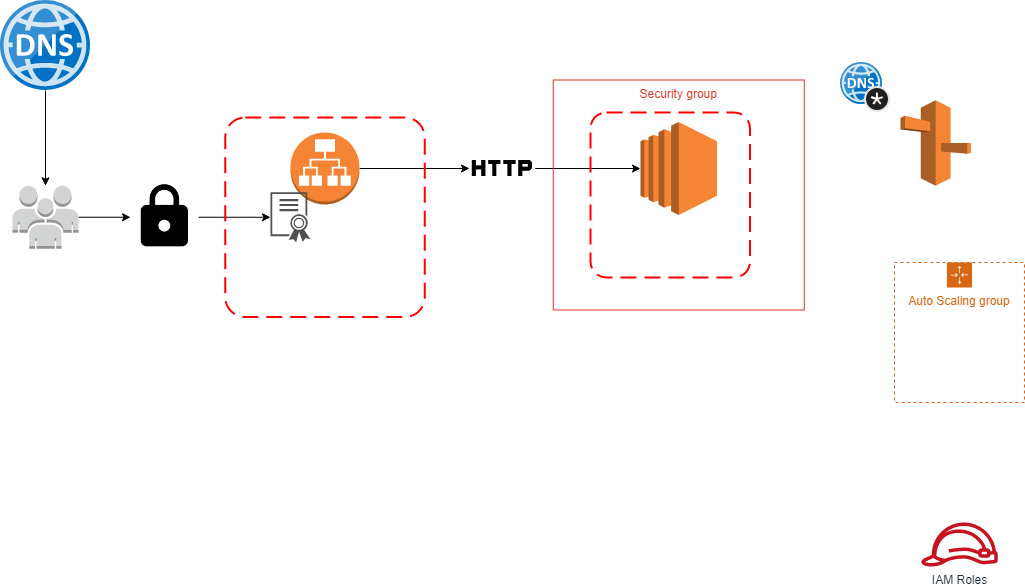
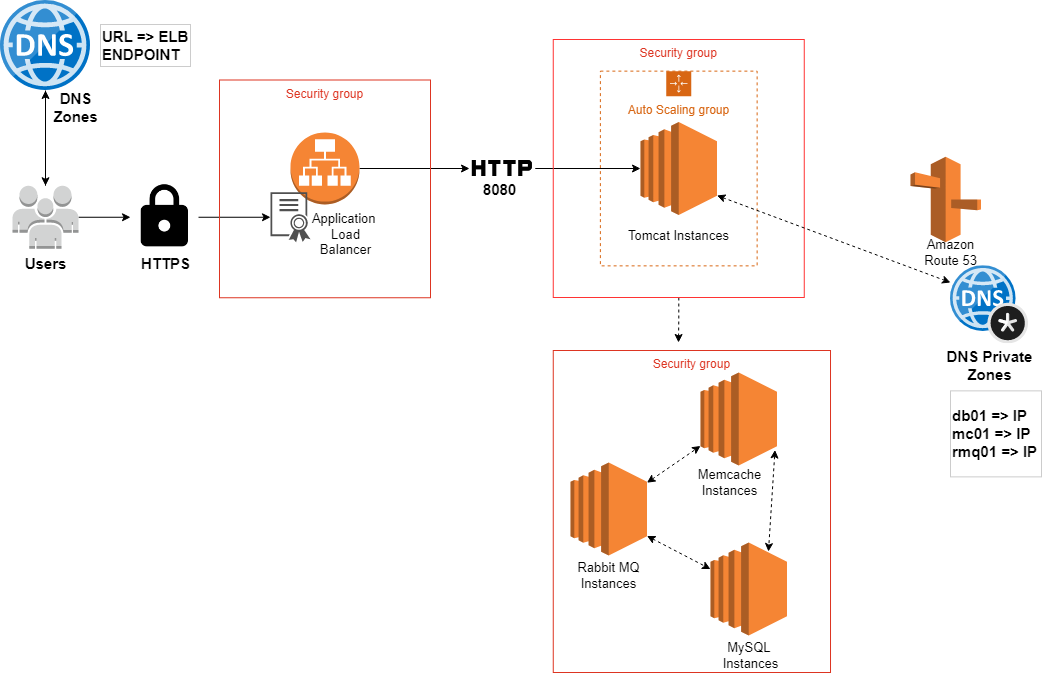
readme file update

diff --git a/README.md b/README.md
@@ -41,6 +41,7 @@
 - Rout 53
 
 ![Architecture1!](images/Architecture1.png)
+![Architecture2!](images/Architecture2.png)
 
 ## Flow of Execution
 1. Login to AWS Account
